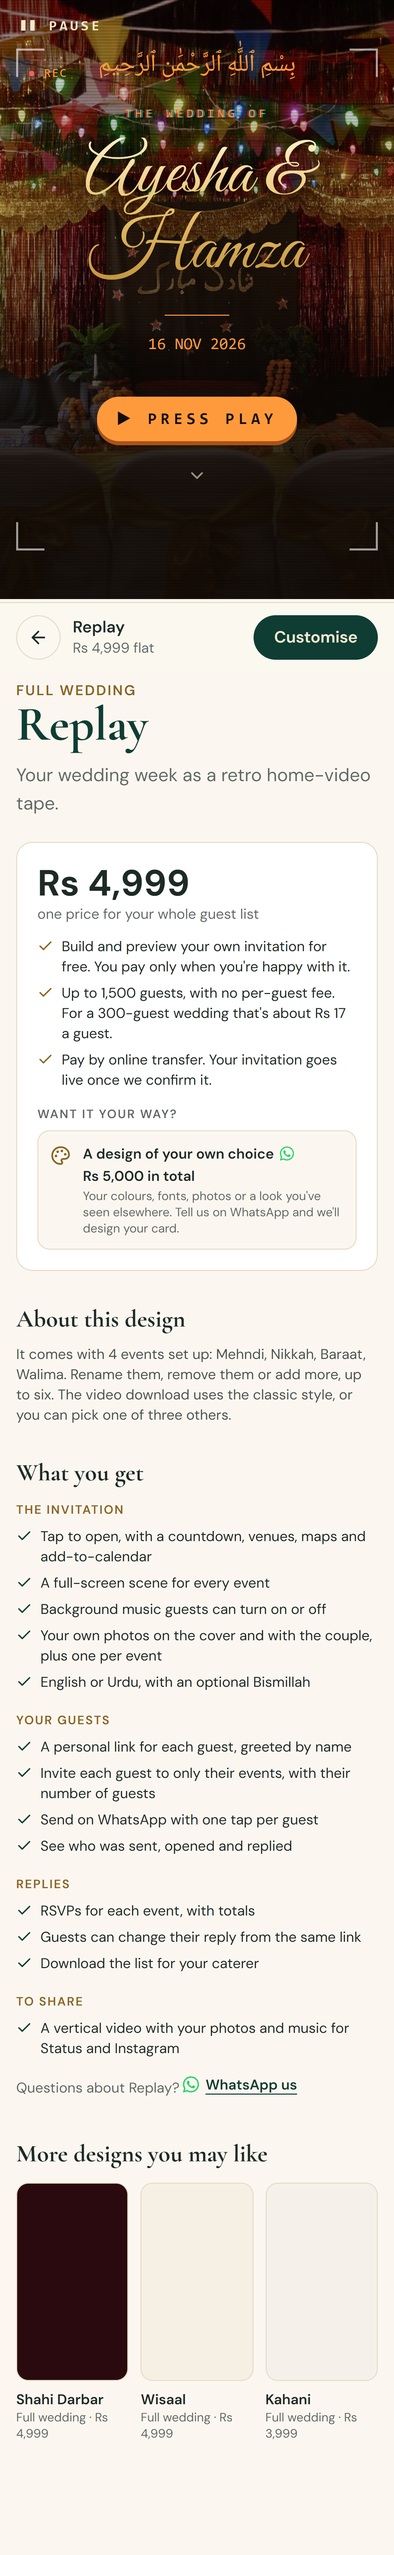
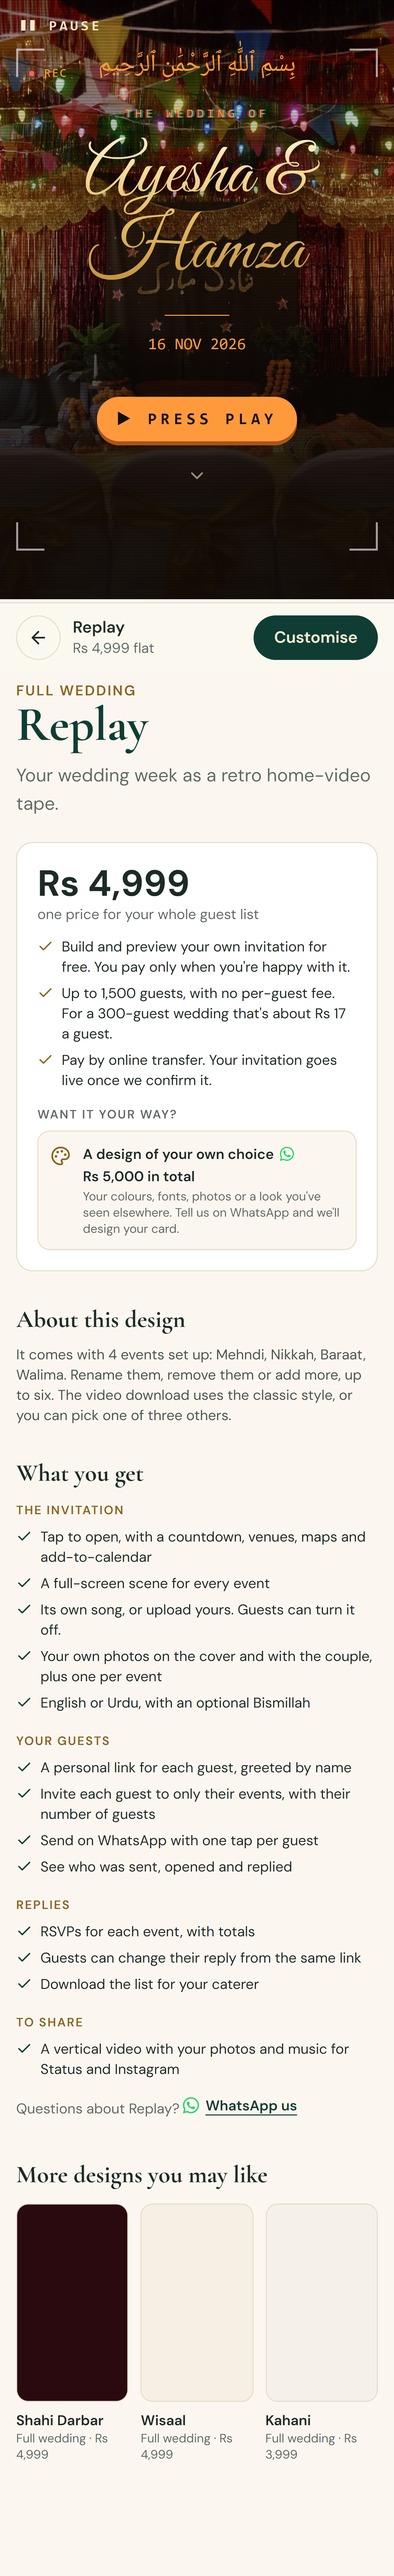
Music: use the design's song, upload your own, or none (editor, invitation, video); separate testing (pages.dev, not indexed) and production (kabootarpost.com) deploys

diff --git a/src/components/MusicField.tsx b/src/components/MusicField.tsx
@@ -1,0 +1,119 @@
+"use client";
+
+import { useEffect, useId, useRef, useState } from "react";
+import { useRouter } from "next/navigation";
+import { Music, Pause, Play, Upload, VolumeX } from "lucide-react";
+import { backendConfigured } from "@/lib/config";
+import { isOurSong, uploadSong } from "@/lib/music";
+import type { Template } from "@/lib/templates";
+
+type Choice = "ours" | "own" | "off";
+
+/**
+ * The invitation's music: the design's own song, a song the family uploads, or none. `value` is content.music
+ * ("" = ours, "off" = none, or the uploaded song's URL). Uploading needs the customer to be signed in.
+ */
+export function MusicField({ template, value, onChange, next }: { template: Template; value: string; onChange: (v: string) => void; next: string }) {
+  const router = useRouter();
+  const id = useId();
+  const input = useRef<HTMLInputElement>(null);
+  const player = useRef<HTMLAudioElement>(null);
+  const [busy, setBusy] = useState(false);
+  const [error, setError] = useState("");
+  const [playing, setPlaying] = useState<string | null>(null);
+  const own = value && value !== "off" && isOurSong(value) ? value : "";
+  // a design without its own song starts on "no music"; picking "your own" before uploading keeps the upload open
+  const [wantOwn, setWantOwn] = useState(false);
+  const choice: Choice = own || wantOwn ? "own" : value === "off" || !template.music ? "off" : "ours";
+
+  useEffect(() => () => player.current?.pause(), []);
+
+  function listen(src: string) {
+    const a = player.current;
+    if (!a) return;
+    if (playing === src) { a.pause(); setPlaying(null); return; }
+    a.src = src;
+    a.currentTime = 0;
+    a.play().then(() => setPlaying(src)).catch(() => setPlaying(null));
+  }
+
+  function pickChoice(c: Choice) {
+    setError("");
+    player.current?.pause(); setPlaying(null);
+    if (c === "ours") { setWantOwn(false); onChange(""); }
+    if (c === "off") { setWantOwn(false); onChange("off"); }
+    if (c === "own") { setWantOwn(true); if (!own) input.current?.click(); }
+  }
+
+  async function upload(file: File | undefined) {
+    if (!file) return;
+    setBusy(true);
+    setError("");
+    try {
+      const r = await uploadSong(file);
+      if ("signIn" in r) { router.push(`/login?next=${encodeURIComponent(next)}`); return; }
+      onChange(r.url);
+    } catch (e) {
+      setError(e instanceof Error ? e.message : "Upload failed. Please try again.");
+    } finally {
+      setBusy(false);
+      if (input.current) input.current.value = "";
+    }
+  }
+
+  const options: { c: Choice; title: string; text: string; icon: typeof Music }[] = [
+    ...(template.music ? [{ c: "ours" as const, title: "Use our song", text: template.music.title, icon: Music }] : []),
+    { c: "own", title: "Upload your own song", text: own ? "Your song is added." : "MP3 or M4A, up to 10 MB", icon: Upload },
+    { c: "off", title: "No music", text: "The invitation opens quietly.", icon: VolumeX },
+  ];
+
+  return (
+    <div>
+      <audio ref={player} onEnded={() => setPlaying(null)} preload="none" />
+      <div role="radiogroup" aria-label="Music" className="grid gap-2 sm:grid-cols-3">
+        {options.map(({ c, title, text, icon: Icon }) => {
+          const picked = choice === c;
+          return (
+            <button key={c} type="button" role="radio" aria-checked={picked} onClick={() => pickChoice(c)} disabled={busy}
+              className={`press flex min-h-14 items-start gap-2.5 rounded-xl border-2 p-3 text-left ${picked ? "border-brand bg-brand/5" : "border-line bg-white hover:border-gold"}`}>
+              <Icon className={`mt-0.5 size-5 shrink-0 ${picked ? "text-brand" : "text-foreground/60"}`} aria-hidden />
+              <span className="min-w-0">
+                <span className="block text-sm font-semibold">{title}</span>
+                <span className="block truncate text-xs text-foreground/70">{text}</span>
+              </span>
+            </button>
+          );
+        })}
+      </div>
+
+      <input ref={input} id={id} type="file" aria-label="Choose a song to upload" accept=".mp3,.m4a,.aac,audio/mpeg,audio/mp4,audio/x-m4a,audio/aac" className="sr-only"
+        disabled={busy || !backendConfigured} onChange={(e) => upload(e.target.files?.[0])} />
+
+      <div className="mt-3 flex flex-wrap items-center gap-2">
+        {choice === "ours" && template.music && (
+          <button type="button" className="btn btn-ghost" onClick={() => listen(template.music!.src)}>
+            {playing === template.music.src ? <Pause className="size-4" aria-hidden /> : <Play className="size-4" aria-hidden />}
+            {playing === template.music.src ? "Pause" : "Listen"}
+          </button>
+        )}
+        {choice === "own" && (
+          <>
+            {own && (
+              <button type="button" className="btn btn-ghost" onClick={() => listen(own)}>
+                {playing === own ? <Pause className="size-4" aria-hidden /> : <Play className="size-4" aria-hidden />}
+                {playing === own ? "Pause" : "Listen to your song"}
+              </button>
+            )}
+            <label htmlFor={id} className={`btn btn-ghost ${busy || !backendConfigured ? "pointer-events-none opacity-50" : "cursor-pointer"}`}>
+              <Upload className="size-4" aria-hidden />{busy ? "Uploading…" : own ? "Choose another song" : "Choose a song"}
+            </label>
+          </>
+        )}
+      </div>
+      {choice === "own" && (
+        <p className="mt-2 text-sm text-foreground/70">Only upload a song you have the right to use. It starts when a guest opens the invitation, and they can turn it off.</p>
+      )}
+      {error && <p role="alert" className="mt-1 text-sm text-red-700">{error}</p>}
+    </div>
+  );
+}

diff --git a/src/lib/music.ts b/src/lib/music.ts
@@ -1,0 +1,44 @@
+import { supabaseEnv } from "./config";
+import type { InviteContent } from "./contentSchema";
+import type { Template } from "./templates";
+
+/** Public Supabase bucket for customers' own songs (see 2026-10-18_invite_music.sql). Each customer writes only to their folder. */
+export const MUSIC_BUCKET = "invite-music";
+export const MAX_SONG_BYTES = 10 * 1024 * 1024;
+
+const prefix = () => (supabaseEnv.url ? `${supabaseEnv.url}/storage/v1/object/public/${MUSIC_BUCKET}/` : "");
+/** Only songs stored in our own bucket are accepted in invitation content. */
+export const isOurSong = (url: string) => {
+  const p = prefix();
+  return p !== "" && url.startsWith(p) && /^[\w/-]+\.(mp3|m4a|aac)$/.test(url.slice(p.length));
+};
+
+/**
+ * The song an invitation plays. content.music: "" = the design's own song (if it has one), "off" = no music,
+ * or the customer's uploaded song (a URL in our bucket).
+ */
+export function musicOf(template: Template, content: Pick<InviteContent, "music">): { src: string; title: string } | undefined {
+  const m = content.music ?? "";
+  if (m === "off") return undefined;
+  if (m && isOurSong(m)) return { src: m, title: "Your song" };
+  return template.music;
+}
+
+const TYPES: Record<string, string> = { mp3: "audio/mpeg", m4a: "audio/mp4", aac: "audio/aac" };
+
+/** Uploads one song (MP3, M4A or AAC, up to 10 MB) for the signed-in customer and returns its public URL. */
+export async function uploadSong(file: File): Promise<{ url: string } | { signIn: true }> {
+  const ext = (file.name.split(".").pop() ?? "").toLowerCase();
+  if (!TYPES[ext]) throw new Error("Please choose an MP3 or M4A song.");
+  if (file.size > MAX_SONG_BYTES) throw new Error("That song is too large. Please choose one under 10 MB (about 8 minutes).");
+  const { getSupabase } = await import("./supabase");
+  const sb = getSupabase();
+  if (!sb) throw new Error("Song upload is not available yet.");
+  const { data } = await sb.auth.getSession();
+  const user = data.session?.user;
+  if (!user) return { signIn: true };
+  const path = `${user.id}/${crypto.randomUUID()}.${ext}`;
+  const { error } = await sb.storage.from(MUSIC_BUCKET).upload(path, file, { contentType: TYPES[ext], cacheControl: "31536000", upsert: false });
+  if (error) throw new Error(/mime|type/i.test(error.message) ? "This file type isn't accepted. Please choose an MP3 or M4A song." : error.message);
+  return { url: sb.storage.from(MUSIC_BUCKET).getPublicUrl(path).data.publicUrl };
+}

diff --git a/src/components/invite/InviteExperience.tsx b/src/components/invite/InviteExperience.tsx
@@ -19,6 +19,7 @@ import {
   BISMILLAH, downloadIcs, eventsDateText, formatEventDate, formatEventTime, mapLink, type InviteContent, type InviteEvent,
 } from "@/lib/content";
 import { FlowInvite } from "./FlowInvite";
+import { musicOf } from "@/lib/music";
 import { Firdaus } from "./Firdaus";
 import { burst, type TapFx } from "@/lib/tapFx";
 import { ArtHero, AURORA_TEXT, GOLD, InviteCard, TAPE_GLASS } from "./InviteCard";
@@ -631,6 +632,8 @@ export function InviteExperience({
   const videoGate = concept === "embossed" || concept === "garden"; // doors / a pearl curtain that open in a short video
   /** how the "Tap to open" cover leaves, for the designs that use it (printed cards and the classic cards) */
   const opening = openingOf(template);
+  /** the design's song, the family's own, or none (content.music) */
+  const music = musicOf(template, fullContent);
   /** stories mode: full-screen pages, one at a time (Stories.tsx), instead of one long scroll */
   const stories = template.mode === "stories" && !!template.print;
   const [storyRun, setStoryRun] = useState(0);
@@ -1010,7 +1013,7 @@ export function InviteExperience({
     const flowProps = {
       content, ordered, allEvents: fullContent.events, names, hello, guest, seats, opened, gone, onOpen: open, scroller, onScroll,
       rsvp: { inviteId, demo: demo || preview, showNote: demo, guestId, events: rsvpEvents },
-      song: template.music ? { node: <audio ref={song} src={template.music.src} loop preload="none" />, off: songOff, toggle: toggleSong } : undefined,
+      song: music ? { node: <audio ref={song} src={music.src} loop preload="none" />, off: songOff, toggle: toggleSong } : undefined,
     };
     return template.flow === "firdaus" ? <Firdaus {...flowProps} /> : <FlowInvite skin={template.flow} {...flowProps} />;
   }
@@ -1661,9 +1664,9 @@ export function InviteExperience({
         </button>
       )}
 
-      {template.music && (
+      {music && (
         <>
-          <audio ref={song} src={template.music.src} loop preload="none" />
+          <audio ref={song} src={music.src} loop preload="none" />
           {opened && (
             <button type="button" onClick={toggleSong} aria-pressed={!songOff} aria-label={songOff ? "Play music" : "Mute music"}
               className="press absolute bottom-[calc(3.5rem+var(--frame-bottom,0px))] left-4 z-30 grid size-11 place-items-center rounded-full border border-white/30 bg-black/60 text-white backdrop-blur">

diff --git a/src/components/Editor.tsx b/src/components/Editor.tsx
@@ -13,6 +13,7 @@ import { InviteExperience } from "@/components/invite/InviteExperience";
 import { VideoExport } from "@/components/VideoExport";
 import { PhoneFrame } from "@/components/PhoneFrame";
 import { PhotoField } from "@/components/PhotoField";
+import { MusicField } from "@/components/MusicField";
 import { SupportLink } from "@/components/SupportLink";
 import { CUSTOM_DESIGN_PRICE } from "@/components/DoneForYou";
 import { Unavailable } from "@/components/TemplateLive";
@@ -299,6 +300,17 @@ export function Editor() {
               hint={forOne ? "A portrait of the birthday star or your little one, shown on its own screen." : "A portrait of the two of you (or the host)."}
               value={content.couplePhoto} fallback={template.sample?.couple} onChange={(url) => set({ couplePhoto: url })} /></div>
             {err("couplePhoto")}
+          </div>
+        </section>
+
+        <section className="space-y-4" aria-label="Music">
+          <h2 className="font-display text-2xl font-bold">Music <span className="text-base font-normal text-foreground/70">(optional)</span></h2>
+          <p className="text-sm text-foreground/70">
+            {template.music ? "This design comes with its own song. Keep it, upload your own, or turn the music off." : "Add a song that plays when guests open the invitation, or keep it quiet."}
+          </p>
+          <div className="rounded-2xl border border-line bg-card p-4">
+            <MusicField template={template} value={content.music ?? ""} next={here} onChange={(v) => set({ music: v })} />
+            {err("music")}
           </div>
         </section>
 

diff --git a/src/components/VideoExport.tsx b/src/components/VideoExport.tsx
@@ -5,6 +5,7 @@ import { Download } from "lucide-react";
 import type { Template } from "@/lib/templates";
 import type { InviteContent } from "@/lib/content";
 import { VIDEO_STYLES, canExportMp4, renderInviteVideo, type VideoStyle } from "@/lib/videoExport";
+import { musicOf } from "@/lib/music";
 
 export function VideoExport({ template, content }: { template: Template; content: InviteContent }) {
   const [supported, setSupported] = useState<boolean | null>(null);
@@ -62,9 +63,9 @@ export function VideoExport({ template, content }: { template: Template; content
       {url && (
         <div className="mt-3 space-y-2">
           <video src={url} controls playsInline className="mx-auto w-full max-w-[300px] rounded-xl" />
-          {template.music && (
+          {musicOf(template, content) && (
             <p className="text-xs text-foreground/70">
-              {withMusic ? "Includes the template's music." : "This browser could not add the music, so the video is silent. Try Chrome or Edge on a computer."}
+              {withMusic ? (content.music && content.music !== "off" ? "Includes your song." : "Includes the design's music.") : "This browser could not add the music, so the video is silent. Try Chrome or Edge on a computer."}
             </p>
           )}
           <a href={url} download={`invitation-${template.id}.mp4`} className="btn btn-primary w-full">

diff --git a/src/lib/videoExport.ts b/src/lib/videoExport.ts
@@ -4,6 +4,7 @@ import {
   AudioBufferSource, BufferTarget, CanvasSource, Mp4OutputFormat, Output, QUALITY_HIGH, canEncodeAudio, canEncodeVideo, type AudioCodec,
 } from "mediabunny";
 import type { Template, VideoStyle } from "./templates";
+import { musicOf } from "./music";
 import { BISMILLAH, eventsDateText, eventsTitle, formatEventTime, type InviteContent } from "./content";
 import { Ornament, isTallOrnament } from "@/components/invite/Ornament";
 
@@ -582,9 +583,10 @@ export async function renderInviteVideo(
   output.addVideoTrack(source, { frameRate: FPS });
 
   let audio: { src: AudioBufferSource; buf: AudioBuffer } | null = null;
-  if (template.music) {
+  const song = musicOf(template, content); // the design's song, the family's own, or none
+  if (song) {
     const codec = await pickAudioCodec();
-    const buf = codec ? await renderMusic(template.music.src, seconds).catch(() => null) : null;
+    const buf = codec ? await renderMusic(song.src, seconds).catch(() => null) : null;
     if (codec && buf) {
       audio = { src: new AudioBufferSource({ codec, bitrate: 128_000 }), buf };
       output.addAudioTrack(audio.src);

diff --git a/src/lib/contentSchema.ts b/src/lib/contentSchema.ts
@@ -3,6 +3,7 @@ import { z } from "zod";
 // No eval-based fast path: the site's Content-Security-Policy does not allow evaluating strings as code.
 z.config({ jitless: true });
 import { isOurPhoto } from "./photos";
+import { isOurSong } from "./music";
 
 /** A customer photo: empty, or a URL in our own storage bucket. */
 const Photo = z.string().trim().max(400).refine((v) => v === "" || isOurPhoto(v), "Please upload the photo again").default("");
@@ -73,6 +74,8 @@ export const ContentSchema = z.object({
   contactPhone: z.string().trim().max(20),
   coverPhoto: Photo,
   couplePhoto: Photo,
+  /** "" = the design's own song, "off" = no music, or the customer's own song (a URL in our bucket, see music.ts) */
+  music: z.string().trim().max(400).refine((v) => v === "" || v === "off" || isOurSong(v), "Please upload the song again").default(""),
 });
 
 export type InviteContent = z.infer<typeof ContentSchema>;

diff --git a/src/app/templates/[id]/page.tsx b/src/app/templates/[id]/page.tsx
@@ -58,7 +58,7 @@ export default async function TemplatePage({ params }: PageProps<"/templates/[id
     ["The invitation", [
       "Tap to open, with a countdown, venues, maps and add-to-calendar",
       ...(t.concept === "print" ? ["The card's artwork stays behind every screen"] : t.concept ? ["A full-screen scene for every event"] : []),
-      ...(t.music ? ["Background music guests can turn on or off"] : []),
+      t.music ? "Its own song, or upload yours. Guests can turn it off." : "Add your own song, or keep it quiet",
       t.concept === "print"
         ? t.print?.photo ? "Your own photo in the frame on the card, plus a portrait screen" : "Add a portrait photo of your own"
         : ["aurora", "monogram", "embossed", "garden"].includes(t.concept ?? "") ? "Add a portrait photo of the two of you"

diff --git a/src/lib/content.ts b/src/lib/content.ts
@@ -120,6 +120,7 @@ export function defaultContent(category: CategoryId, language: "en" | "ur" = "en
     contactPhone: "",
     coverPhoto: "",
     couplePhoto: "",
+    music: "",
   };
 }
 
